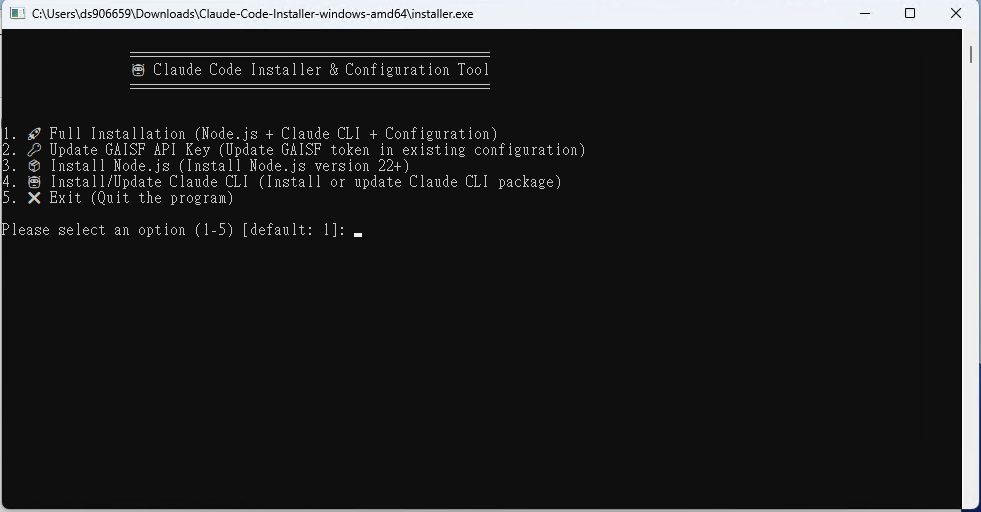
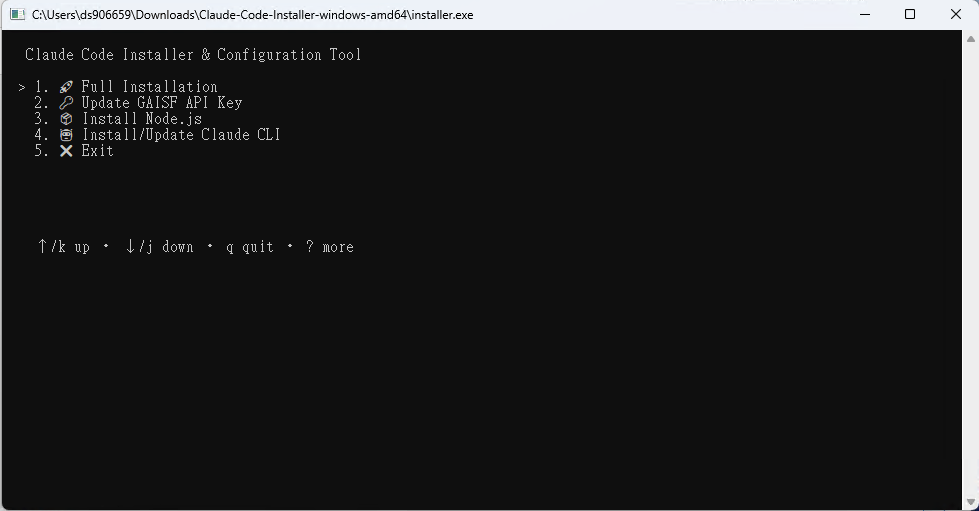
docs: Update installation guide with additional images and improved instructions

diff --git a/README.zh-TW.md b/README.zh-TW.md
@@ -84,28 +84,35 @@ chmod +x ./installer  # 給予執行權限（如需要）
 
 安裝程式啟動後，您會看到主選單：
 
-1. **開始安裝**：按下 Enter 鍵或輸入 `1` 並按 Enter
+1. **開始安裝**：按下 Enter 鍵 或 選擇需要的功能
 
 ![安裝程式主選單](images/installer_menu1.png)
 
 > ⏳ **請耐心等候**：此步驟包含 Node.js v22 和 Claude Code CLI 的下載與安裝，可能需要幾分鐘時間。
+
+完成後你會看到這個畫面引導你進行下一步
+
+![安裝完成](images/after_installed.png)
 
 ### 步驟 5：API Key 設定
 
 安裝完成後，您可以選擇 API Key 的設定方式：
 
 #### 選項 1：自動設定 GAISF Token（推薦）
-- 輸入您的 MediaTek 帳號和密碼
+
+- 根據引導輸入您的 MediaTek 帳號和密碼
 - 系統會自動取得並設定 GAISF Token
 
 ![GAISF 設定](images/setup_gaisf.png)
 
 #### 選項 2：手動輸入 GAISF Token
+
 - 如果您已經有 GAISF Token，可直接貼上到輸入框中
 
 ![貼上 GAISF Token](images/paste_gaisf_token.png)
 
 #### 選項 3：跳過設定（進階使用者）
+
 - 稍後手動編輯設定檔案來設定 API Key
 
 ![跳過設定](images/skip_setup.png)
